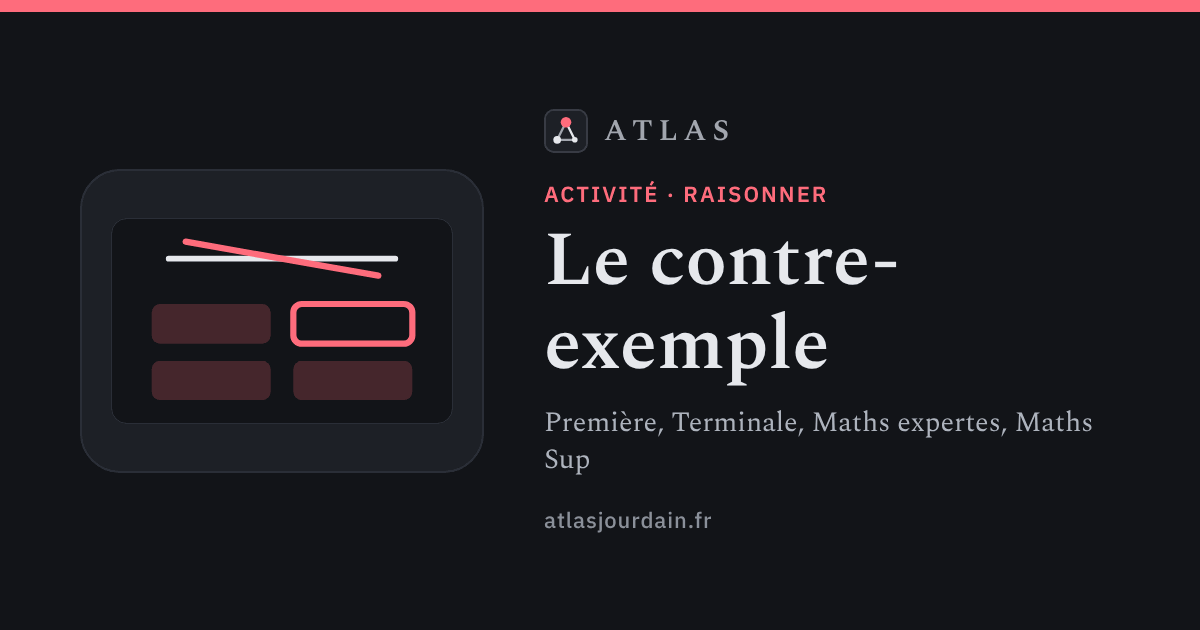
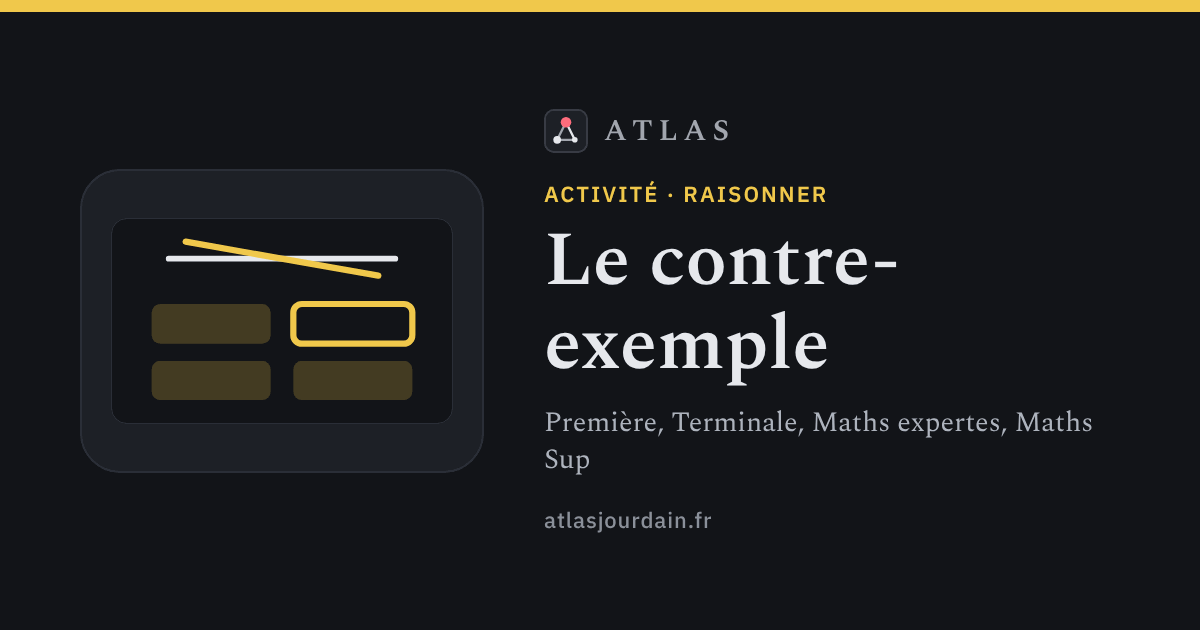
Barre du haut : pastille Parcours du jour, marque alignée ; parcours en rouge, Raisonner en or
Claude-Session: https://claude.ai/code/session_01Fc4dPHXr9WgmuhMB3kf6jw

diff --git a/gabarit.html b/gabarit.html
@@ -1026,7 +1026,7 @@ blockquote.redaction p { margin: 0; }
 .reessayer-lexique { font: inherit; color: var(--rouge); background: none; border: 0; padding: 0; cursor: pointer; text-decoration: underline; text-underline-offset: 3px; }
 
 /* ================================================================ menu des rubriques */
-.marque-menu { position: relative; }
+.marque-menu { position: relative; display: flex; align-items: center; }   /* flex : sans cela le titre, élément en ligne, laisse sous lui la place des jambages et la marque remonte de 3 px par rapport aux autres boutons de la barre */
 .marque-bouton {
   display: inline-flex; align-items: center; gap: 10px; border: 0; background: none; padding: 4px 8px 4px 4px;
   margin: -4px 0 -4px -4px; border-radius: 8px; cursor: pointer; font: inherit; letter-spacing: inherit; color: var(--encre);
@@ -1216,6 +1216,24 @@ svg.sym-anime { overflow: visible; }
 .acc-legende { display: flex; justify-content: space-between; gap: 10px; flex-wrap: wrap; font-size: 12.5px; color: var(--encre-2); padding: 8px 4px 0; border-top: 1px solid var(--filet); margin-top: 6px; }
 .acc-legende b { font-family: var(--f-mono); font-weight: 600; color: var(--encre); }
 .acc-section { margin: 26px 0 0; }
+/* Pastille « Parcours du jour » (§78), dans la barre du haut, avant la loupe. Sous 1280 px : l'anneau seul. */
+.tete-parcours { --o: var(--rouge); flex: none; display: inline-flex; align-items: center; gap: 7px; height: 32px; padding: 0 12px 0 4px; border-radius: 16px; text-decoration: none; white-space: nowrap;
+  font: 600 13px/1 var(--f-ui); color: var(--encre); border: 1px solid color-mix(in srgb, var(--o) 50%, transparent); background: color-mix(in srgb, var(--o) 11%, transparent); transition: background-color .2s, border-color .2s; }
+.tete-parcours[hidden] { display: none; }
+@media (min-width: 861px) { body.en-rubrique .tete-parcours:not([hidden]) { margin-left: auto; } body.en-rubrique .tete-parcours:not([hidden]) + .chercher-tout { margin-left: -8px; } }   /* collée à la loupe, à droite */
+@media (max-width: 349px) { .tete-parcours { display: none; } }   /* très petit écran : la barre n'a plus la place */
+.tete-parcours:hover, .tete-parcours:focus-visible { background: color-mix(in srgb, var(--o) 20%, transparent); border-color: var(--o); }
+.tete-parcours svg { width: 24px; height: 24px; flex: none; fill: none; stroke-linecap: round; }
+.tete-parcours svg path { stroke: color-mix(in srgb, var(--o) 30%, transparent); stroke-width: 2.4; }
+.tete-parcours svg path.fait { stroke: var(--o); }
+.tete-parcours svg path.coche { stroke: var(--o); stroke-width: 2.2; stroke-linejoin: round; }
+.tete-parcours svg text { fill: var(--encre); stroke: none; font: 600 9.5px var(--f-mono); text-anchor: middle; dominant-baseline: central; }
+.tete-parcours .tp-etat { font: 500 11.5px/1 var(--f-mono); color: var(--encre-2); padding-left: 7px; border-left: 1px solid color-mix(in srgb, var(--o) 40%, transparent); }
+@media (max-width: 1279px) {
+  .tete-parcours { width: 32px; padding: 0; justify-content: center; border-color: transparent; background: none; }
+  .tete-parcours svg { width: 28px; height: 28px; }
+  .tete-parcours .tp-nom, .tete-parcours .tp-etat { display: none; }
+}
 /* Le jardin de l'accueil (§73) : bande dessinée sur un canevas par accueilJardin(). */
 .acc-jardin { position: relative; height: 108px; margin: -16px 0 -8px; }
 .acc-jardin canvas { display: block; width: 100%; height: 100%; }
@@ -1717,7 +1735,11 @@ table.grille button.pli-ann:hover { border-color: var(--encre); }
   .effacer-edifice span { display: none; }   /* 16 px : pas de zoom automatique sur iOS */
   .resultats-edifice { left: 16px; right: 16px; max-height: 55vh; }
   .marque { font-size: 17px; white-space: normal; }
-  .entete { display: grid; grid-template-columns: minmax(0, 1fr) auto auto auto auto; align-items: center; }   /* marque, loupe, thème, drapeau, Partager */
+  .entete { display: grid; grid-template-columns: minmax(0, 1fr) auto auto auto auto auto; align-items: center; }   /* marque, parcours du jour, loupe, thème, drapeau, Partager */
+  .tete-parcours { width: 34px; height: 36px; justify-self: end; margin-left: 6px; }
+  .entete:has(.tete-parcours:not([hidden])) .chercher-tout { margin-left: 2px !important; }
+  .entete:has(.tete-parcours:not([hidden])) .partager { margin-left: 4px; padding: 4px 9px; }
+  @media (max-width: 380px) { .entete:has(.tete-parcours:not([hidden])) :is(.chercher-tout, .bouton-theme, .signaler) { width: 31px; } .tete-parcours { width: 30px; margin-left: 4px; } .entete:has(.tete-parcours:not([hidden])) .partager { padding: 4px 7px; } }
   /* Trois boutons à symbole de même taille (36 px, cible tactile), également espacés et centrés sur une même ligne ;
      un écart plus large les sépare de la marque (le chevron du menu) et du bouton Partager. */
   .entete { column-gap: 2px; }
@@ -1746,8 +1768,8 @@ table.grille button.pli-ann:hover { border-color: var(--encre); }
   background: var(--trame); border: 1px solid var(--filet); border-top: 4px solid var(--o); border-radius: 10px 10px 0 0; }
 .activites-onglet-toutes { --o: var(--encre-3); }
 /* Casse-têtes : teinte propre au groupe (bleu pétrole, entre le bleu de l'édifice et le vert de l'analyse). */
-:root { --activites-jeu: #0e7490; --activites-calcul: #4051c4; } :root[data-theme="dark"] { --activites-jeu: #5cc8dc; --activites-calcul: #9aa8ff; }
-[data-teinte="jeu"] { --o: var(--activites-jeu) !important; } [data-teinte="calcul"] { --o: var(--activites-calcul) !important; } [data-teinte="raison"] { --o: var(--rouge) !important; } [data-teinte="annales"] { --o: var(--r-annales) !important; } [data-teinte="geo"] { --o: var(--c-geo) !important; }
+:root { --activites-jeu: #0e7490; --activites-calcul: #4051c4; --activites-raison: #8f6b00; } :root[data-theme="dark"] { --activites-jeu: #5cc8dc; --activites-calcul: #9aa8ff; --activites-raison: #f0c84b; }   /* or de Raisonner (13 nov., choix de l'auteur) */
+[data-teinte="jeu"] { --o: var(--activites-jeu) !important; } [data-teinte="calcul"] { --o: var(--activites-calcul) !important; } [data-teinte="raison"] { --o: var(--activites-raison) !important; } [data-teinte="annales"] { --o: var(--r-annales) !important; } [data-teinte="marque"] { --o: var(--rouge) !important; } [data-teinte="geo"] { --o: var(--c-geo) !important; }
 /* Explorations : le sous-menu et les cartes prennent la couleur du domaine mathématique (celles des familles de l'édifice). */
 .activites-sous a, .activites-carte { --o: var(--c-ord); }
 [data-domaine="analyse"] { --o: var(--c-ana) !important; } [data-domaine="geometrie"] { --o: var(--c-geo) !important; }
@@ -1832,6 +1854,7 @@ table.grille button.pli-ann:hover { border-color: var(--encre); }
       <a href="#accueil" data-onglet="accueil">Accueil</a><a href="#edifice" data-onglet="edifice">L'édifice</a><a href="#cours" data-onglet="cours">Cours</a><a href="#exercices" data-onglet="exercices">Exercices</a><a href="#annales" data-onglet="annales">Annales</a><a href="#activites" data-onglet="activites">Activités</a>
     </nav>
     <ol class="fil" id="fil" aria-label="Position dans l'atlas"></ol>
+    <a class="tete-parcours" id="tete-parcours" href="#activites/parcours" hidden></a>
     <button type="button" class="chercher-tout" id="chercher-tout" aria-haspopup="dialog" aria-expanded="false" title="Rechercher dans tout le site (Ctrl K)" aria-label="Rechercher dans tout le site"><svg viewBox="0 0 24 24" width="18" height="18" aria-hidden="true" focusable="false"><circle cx="10.5" cy="10.5" r="6.2" fill="none" stroke="currentColor" stroke-width="1.9"/><path d="M15.2 15.2 20 20" fill="none" stroke="currentColor" stroke-width="2.1" stroke-linecap="round"/></svg></button>
     <button type="button" class="bouton-theme" id="theme" aria-pressed="false" title="Passer en mode clair" aria-label="Passer en mode clair"><svg class="icone-soleil" viewBox="0 0 200 200" width="26" height="26" aria-hidden="true" focusable="false"><rect x="4" y="4" width="192" height="192" rx="42" fill="#1d2027" stroke="#3a3f4a" stroke-width="8"/><g stroke="#e7e9ed" stroke-width="13" stroke-linecap="round"><line x1="100" y1="40" x2="100" y2="58" transform="rotate(0 100 100)"/><line x1="100" y1="40" x2="100" y2="58" transform="rotate(45 100 100)"/><line x1="100" y1="40" x2="100" y2="58" transform="rotate(90 100 100)"/><line x1="100" y1="40" x2="100" y2="58" transform="rotate(135 100 100)"/><line x1="100" y1="40" x2="100" y2="58" transform="rotate(180 100 100)"/><line x1="100" y1="40" x2="100" y2="58" transform="rotate(225 100 100)"/><line x1="100" y1="40" x2="100" y2="58" transform="rotate(270 100 100)"/><line x1="100" y1="40" x2="100" y2="58" transform="rotate(315 100 100)"/></g><circle cx="100" cy="100" r="28" fill="#ff6d7d"/></svg><svg class="icone-lune" viewBox="0 0 200 200" width="26" height="26" aria-hidden="true" focusable="false"><rect x="4" y="4" width="192" height="192" rx="42" fill="#1d2027" stroke="#3a3f4a" stroke-width="8"/><path d="M118 48a56 56 0 1 0 38 92A46 46 0 0 1 118 48z" fill="#e7e9ed"/><circle cx="140" cy="62" r="9" fill="#ff6d7d"/></svg></button>
     <button type="button" class="signaler" id="signaler" aria-haspopup="dialog" aria-expanded="false" title="Signaler une erreur sur cette page" aria-label="Signaler une erreur sur cette page"><svg viewBox="0 0 24 24" width="17" height="17" aria-hidden="true" focusable="false"><path d="M5 21V4M5 4.5c2.2-1.3 4.4-1.3 6.6 0s4.4 1.3 6.6 0v8.4c-2.2 1.3-4.4 1.3-6.6 0s-4.4-1.3-6.6 0" fill="none" stroke="currentColor" stroke-width="1.7" stroke-linecap="round" stroke-linejoin="round"/></svg></button>
@@ -3812,6 +3835,28 @@ function miniEdifice() {
   }
   return h + '</svg>';
 }
+// Pastille « Parcours du jour » de la barre du haut (§78) : un accès direct, depuis toute page, pour qui le fait
+// chaque jour. L'anneau a un segment par étape, colorié si l'étape est faite aujourd'hui ; au centre, le jour du
+// mois, ou une coche quand tout est fait. Sur écran étroit, l'anneau seul. Mêmes mémoires que activites/jour.js et
+// parcours.js (atlas-parcours, atlas-compte-est-bon), relues ici ; majParcours() est appelée à chaque changement de
+// page et toutes les trois secondes (une étape se valide dans l'activité, sans changer de page).
+function majParcours() {
+  const a = $('#tete-parcours'); if (!a) return;
+  if (!D.vActivites) { a.hidden = true; return; }
+  const ETAPES = ['compte-est-bon', 'serie', 'ordonner', 'erreur', 'contre-exemple', 'implication'], NIV_COMPTE = { premiere: 0, terminale: 1, expertes: 1, sup: 1 };
+  const [y, mo, d] = new Intl.DateTimeFormat('en-CA', { timeZone: 'Europe/Paris', year: 'numeric', month: '2-digit', day: '2-digit' }).format(new Date()).split('-').map(Number), jour = Math.round((Date.UTC(y, mo - 1, d) - Date.UTC(2026, 0, 1)) / 864e5);
+  const lire = c => { try { return JSON.parse(localStorage.getItem(c) || 'null') || {}; } catch (e) { return {}; } };
+  const m = lire('atlas-parcours'), cb = lire('atlas-compte-est-bon'), niveau = m.niveau in NIV_COMPTE ? m.niveau : '';
+  const faits = ETAPES.map(id => !!niveau && (id === 'compte-est-bon' ? cb.jour === jour && !!cb.faits && (NIV_COMPTE[niveau] in cb.faits) : m.jour === jour && !!(m.faits || {})[id]));
+  const signe = d + ':' + faits.map(Number).join(''); if (a.dataset.signe === signe) return; a.dataset.signe = signe;
+  const nb = faits.filter(Boolean).length, fini = nb === ETAPES.length;
+  const arc = k => { const t0 = (-90 + k * 60 + 8) * Math.PI / 180, t1 = (-90 + (k + 1) * 60 - 8) * Math.PI / 180, P = t => `${(12 + 10 * Math.cos(t)).toFixed(2)} ${(12 + 10 * Math.sin(t)).toFixed(2)}`; return `<path class="${faits[k] ? 'fait' : ''}" d="M${P(t0)}A10 10 0 0 1 ${P(t1)}"/>`; };
+  const etat = fini ? 'terminé' : nb ? `${nb} sur ${ETAPES.length}` : '', dit = fini ? 'Parcours du jour terminé' : nb ? `Parcours du jour : ${nb} étapes faites sur ${ETAPES.length}` : 'Parcours du jour : six étapes, un quart d\'heure';
+  a.hidden = false; a.classList.toggle('fini', fini); a.title = dit; a.setAttribute('aria-label', dit);
+  a.innerHTML = `<svg viewBox="0 0 24 24" aria-hidden="true">${ETAPES.map((_, k) => arc(k)).join('')}${fini ? '<path class="coche" d="M7.6 12.4l3 3 5.8-6.4"/>' : `<text x="12" y="12.2">${d}</text>`}</svg>`
+    + `<span class="tp-nom">Parcours du jour</span>${etat ? `<span class="tp-etat">${etat}</span>` : ''}`;
+}
+setInterval(() => { if (!document.hidden) majParcours(); }, 3000);
 function pageAccueil() {
   const g = D.graphes[D.racine];
   const nbTheories = g.noeuds.length, nbNoeuds = Object.keys(D.noeuds).length, nbTermes = Object.keys(D.lexique).length;
@@ -6235,6 +6280,7 @@ document.querySelectorAll('#nav-rub a[data-onglet]').forEach(a => { const t = a.
 // La pastille courante s'agrandit pour contenir la suite du fil d'Ariane (après le nom de la rubrique) : chaque
 // étape reprend le texte de l'élément du fil et, au clic, déclenche son bouton (le fil garde toute la logique).
 function majOnglets() {
+  majParcours();
   const nav = $('#nav-rub'); if (!nav) return;
   const nom = document.body.classList.contains('en-rubrique') ? ($('#rubrique')?.dataset.nom || '') : 'edifice';
   const ancien = nav.querySelector('.nav-rub-cur');

diff --git a/activites/parcours.js b/activites/parcours.js
@@ -5,7 +5,7 @@ import { cssJeux, ecrire } from './jeux.js';
 import { NIVEAUX_PARCOURS, aujourdhui, lireParcours, ecrireParcours, demander } from './jour.js';
 
 export const css = cssCommun + cssFigures + cssJeux + `
-.activites-act .jeu { --activites-jeu: var(--r-annales); }
+.activites-act .jeu { --activites-jeu: var(--rouge); }
 .activites-act .pc-niveaux { display: flex; flex-wrap: wrap; gap: 8px; align-items: center; }
 .activites-act .pc-niveaux .nom { font: 600 13px var(--f-ui); letter-spacing: .04em; text-transform: uppercase; color: var(--encre-3); margin-right: 4px; }
 .activites-act .pc-date { padding: 12px 16px 0; margin: 0; font: 600 15px var(--f-ui); color: var(--encre-2); }
@@ -19,7 +19,7 @@ export const css = cssCommun + cssFigures + cssJeux + `
 .activites-act .pc-etapes .quoi { font: 14.5px/1.45 var(--f-ui); color: var(--encre-2); display: block; }
 .activites-act .pc-etapes .etat { font: 600 13px var(--f-ui); color: var(--encre-3); white-space: nowrap; }
 .activites-act .pc-etapes li.fait a { border-color: var(--tan); border-left-color: var(--tan); } .activites-act .pc-etapes li.fait .etat { color: var(--tan); }
-.activites-act .pc-etapes .calcul { --t: var(--activites-calcul); } .activites-act .pc-etapes .raison { --t: var(--rouge); }
+.activites-act .pc-etapes .calcul { --t: var(--activites-calcul); } .activites-act .pc-etapes .raison { --t: var(--activites-raison); }
 @media (max-width: 520px) { .activites-act .pc-etapes a { grid-template-columns: auto minmax(0, 1fr); } .activites-act .pc-etapes .etat { grid-column: 2; } }
 `;
 

diff --git a/activites/raisonner.js b/activites/raisonner.js
@@ -2,7 +2,7 @@
 export const NIVEAUX = [['premiere', 'Première'], ['terminale', 'Terminale'], ['expertes', 'Maths expertes'], ['sup', 'Maths Sup']];
 export const THEMES = [['fondements', 'Fondements'], ['algebre', 'Algèbre'], ['lineaire', 'Algèbre linéaire'], ['analyse', 'Analyse'], ['probabilites', 'Probabilités']];
 export const cssRaison = `
-.activites-act .jeu { --activites-jeu: var(--rouge); }
+.activites-act .jeu { --activites-jeu: var(--activites-raison); }
 .activites-act .rz-niveaux { display: flex; flex-wrap: wrap; gap: 6px; align-items: center; }
 .activites-act .bar.top { flex-direction: column; align-items: flex-start; gap: 8px; }
 .activites-act .rz-niveaux[hidden] { display: none; }

diff --git a/MEMO_atlas_apropos.md b/MEMO_atlas_apropos.md
@@ -816,3 +816,27 @@ domaine ou de son groupe. Les capitales ne s'appliquent qu'aux lettres latines (
 - Règle pour toutes les conversations : MEMO_atlas.md §0, point 9.
 
 Restent sur l'image de l'accueil : les adresses « # » (groupes d'activités, vues par niveau, lexique…), voir §75.
+
+## 78. Pastille « Parcours du jour » dans la barre du haut ; marque alignée ; couleurs permutées (13 nov. 2026)
+
+**Pastille** (demande de l'auteur : un accès rapide pour qui fait le parcours chaque jour). `a#tete-parcours.tete-parcours`
+dans l'en-tête, juste avant la loupe, remplie par `majParcours()` : un anneau à six segments (un par étape, colorié
+si l'étape est faite aujourd'hui), le jour du mois au centre (une coche quand tout est fait), puis « Parcours du
+jour » et l'avancement (« 3 sur 6 », « terminé »). Sous 1 280 px et sur téléphone : l'anneau seul (la grille de
+l'en-tête du téléphone a une colonne de plus ; boutons resserrés sous 380 px ; masquée sous 350 px). Elle relit les
+mémoires du parcours (`atlas-parcours`, `atlas-compte-est-bon` : mêmes règles que `activites/jour.js` et
+`parcours.js`, à tenir d'accord si elles changent) à chaque changement de page (`majOnglets`) et toutes les trois
+secondes, une étape se validant sans changer de page. Affichée pour tous (invitation pour qui n'a pas commencé).
+D'abord essayée en haut de l'accueil, puis déplacée dans la barre à la demande de l'auteur.
+
+**Marque alignée.** Le logo, « ATLAS » et le chevron étaient 3 à 4 px plus haut que les autres boutons de la barre :
+`.marque-menu` est désormais `display: flex; align-items: center` (le titre, en ligne, réservait la place des
+jambages).
+
+**Couleurs (décision de l'auteur).** Le parcours du jour prend le rouge du logo et du titre : exception voulue à la
+règle « rouge réservé aux définitions, aux axiomes et au logo ». Pour le libérer, Raisonner passe du rouge à l'or
+(`--activites-raison` : #8f6b00 en clair, #f0c84b en sombre). Teintes : `raison` → or, nouvelle teinte `marque` →
+rouge (parcours du jour, `couleur: marque` dans activites.yaml), `annales` → orange (inchangée, plus employée).
+Modifiés hors de mon domaine, à la demande de l'auteur : `rubriques/activites.yaml` (parcours), `activites/raisonner.js`
+et `activites/parcours.js` (cadres et liserés). Les signalements d'erreur des jeux restent rouges. Images d'aperçu
+des cinq activités refaites.

diff --git a/MEMO_atlas_activites.md b/MEMO_atlas_activites.md
@@ -37,6 +37,12 @@ Sur téléphone (≤ 640 px), les intercalaires passent à la ligne et se partag
 d'emblée : le défilement latéral, que rien ne signalait, cachait des groupes (demande de l'auteur, 12 nov., faite
 depuis le domaine À propos – apparence).
 
+**Couleurs changées le 13 nov. par le domaine À propos, sur décision de l'auteur** (MEMO_atlas_apropos.md §78) : le
+parcours du jour est en rouge, celui du logo (`couleur: marque`), et il a une pastille d'accès dans la barre du haut,
+qui relit `atlas-parcours` et `atlas-compte-est-bon` (prévenir ce domaine si le format de ces mémoires ou la liste
+des six étapes change). Le groupe Raisonner passe du rouge à l'or (`--activites-raison` ; teinte `raison`), dans
+`raisonner.js` et dans les liserés de `parcours.js`. Le rouge reste la couleur des fautes dans les jeux.
+
 **À faire, signalé par le domaine À propos – apparence (12 nov., demande de l'auteur).** (1) Un groupe d'activités
 (Explorations, Casse-têtes, Calcul mental, Raisonner…) n'a pas de page de lecture : « Partager » donne donc
 `#activites/<groupe>`, qui ouvre la bonne page mais dont l'aperçu en messagerie est celui de l'accueil. Créer dans
